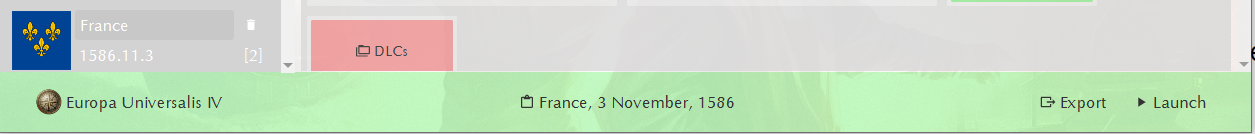
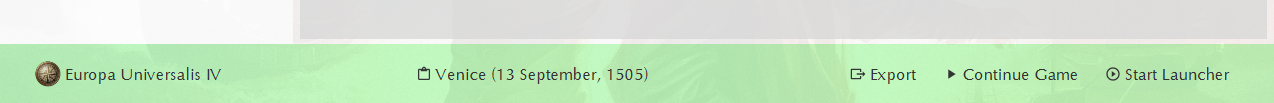
Update readmes

diff --git a/GUIDE.md b/GUIDE.md
@@ -24,13 +24,14 @@ Afterwards, this guide will show you how to make the best use of all the functio
 ## Table of Contents
 
 - [Game Installation detection](#game-installations)
-- [Importing savegames](#savegame-storage)
+- [Importing savegames](#savegame-importing-and-storage)
 - [Managing campaigns and folders](#campaigns-and-folders)
 - [Managing savegames](#savegames)
 - [Launching savegames](#launching-savegames)
 - [Other things to do with savegames](#savegame-actions)
-- [How to savescum](#savescumming)
+- [How to savescum](#savegame-checkpoints-and-savescumming)
 - [Accessing the raw savegame files](#working-with-the-raw-savegame-files)
+- [Troubleshooting](#troubleshooting)
 
 
 ## Game Installations
@@ -39,9 +40,9 @@ Upon installation, you probably have a lot of savegames of different Paradox gam
 either saved in your documents directories or your Steam cloudsave directories.
 The Pdx-Unlimiter will try to automatically detect any of those game installation and save game directories.
 If any installation is not detected, you can set them manually in the settings menu.
-Note that only up-to-date installations of Paradox games with installed Paradox Launcher are supported!
+Note that only relatively up-to-date installations of Paradox games with the Paradox Launcher are supported!
 
-## Savegame storage
+## Savegame importing and storage
 
 The Pdx-Unlimiter has an internal savegame storage that is
 independent of these savegame directories of your installed games.
@@ -58,9 +59,9 @@ import any savegame that you want to manage.
 This separation means that changing or deleting a file from your savegame directory
 does not delete it from the Pdx-Unlimiter storage and vice-versa.
 
-In the settings menu you can change the storage location and
-enable the option `Delete on import` which specifies
-whether to delete savegames after succesfully importing it into the Pdx-Unlimiter storage.
+You can change the storage directory in the settings menu and
+also open it by clicking on `Storage` -> `Open storage directory` in the menu bar.
+
 
 ## Campaigns and folders
 
@@ -74,10 +75,10 @@ In addition to campaigns, you can also create folders by clicking on the **Add F
 shown in the picture.
 Next to it is a search bar that you can use to quickly find specific campaigns or savegames.
 A folder is meant to store various savegames that might belong to entirely different campaigns.
-An example is the **Melted Savegames** folder that stores any converted Ironman savegame.
+An example is the generated **Melted Savegames** folder that stores any converted Ironman savegame.
 
 The campaigns and folders are ordered by how recently a savegame
-of that campaign was directly launched from the Pdx-Unlimiter.
+of that campaign was launched from the Pdx-Unlimiter.
 
 The campaign name can be edited by clicking on it.
 You can also delete an entire campaign by clicking on the **Delete** button.
@@ -110,9 +111,13 @@ By clicking the **Export** button in the status bar,
 you can copy the savegame into the savegame directory of the current game.
 This will however not launch the game automatically.
 
-You can also launch the selected savegame directly by clicking the **Launch** button.
+You can also launch the selected savegame directly by clicking the **Continue Game** button.
 This direct launch will automatically attempt to enable every required mod and dlc.
 This will bypass the Paradox launcher and main menu, i.e. saving a lot of time.
+
+**Start Launcher** will start your active launcher, usually the Paradox Launcher,
+in which you can then click **Continue Game** to launch the selected savegame.
+This is useful, if you want to change your mod or dlc configurations.
 
 If some content is missing, or the game version is not compatible, a red status bar will be shown.
 You can still launch the savegame, but you will get a warning about which mod or dlc is missing.
@@ -167,7 +172,7 @@ For this to work, you first have to set your skanderbeg.pm <b>API key</b> in the
 Deletes the savegame.
 </p>
 
-## Savescumming
+## Savegame checkpoints and savescumming
 
 In case of any unfortunate ingame event that you want to revert,
 the Pdx-Unlimiter gives you the ability to savescum, i.e. reverting to a
@@ -176,11 +181,11 @@ While playing a supported game, a status bar that looks like will pop up:
 
 ![Running](docs/status-bar-running.png)
 
+### Shortcuts
 
 These previous savegame checkpoints can be created/imported while being ingame by
 clicking on **Import** button or pressing `CTRL+SHIFT+I`.
 This will import the latest savegame, shown in the center of the status bar.
-If the key combination is pressed, a confirmation sound will play
 
 By pressing either `CTRL+SHIFT+K` or **Kill** in the status bar,
 you can kill the currently running game without it having a chance to overwrite the latest savegame.
@@ -188,6 +193,19 @@ You can simply select your latest imported savegame in the Pdx-Unlimiter and lau
 
 If you just want to revert to the latest saved savegame, you can also use `CTRL+SHIFT+R`
 to combine these functions, i.e. import the latest savegame, kill the game process and launch it again.
+
+### Settings
+
+In the settings menu you can also enable time-based autoimports of savegames:
+- `Enabled timed imports` - Enables automatically importing the latest
+  savegame after a certain time has passed while playing.
+- `Timed imports interval` - The interval between automatic imports in minutes.
+
+
+If a key combination to import is pressed, a confirmation sound
+will play if the following option is enabled in the settings menu:
+- `Play sound on background import` - Play a beep sound when importing a savegame
+  while a game is open and the Pdx-Unlimiter is running in the background.
 
 ## Working with the raw savegame files
 
@@ -223,7 +241,8 @@ In case of any problems, you can do the following:
 
 - Use the automatic report functionality of the error reporter if it comes up
 - You can also open the issue reporter at 'Help' -> 'Report issue' in the menu bar
-- Alternatively, you can also open an issue on GitHub and describe the error in more detail
+- Alternatively, you can also open an issue on GitHub and describe the error
+  in more detail or visit the Pdx-Unlimiter Discord server
 - If the application does not even start, or you want to dig deeper into the error cause,
   you can find the different log files at `<documents directory>\Pdx-Unlimiter\logs`
   on Windows and `~/.local/share/.pdx-unlimiter/logs` on Linux.

diff --git a/EDITOR-GUIDE.md b/EDITOR-GUIDE.md
@@ -1,11 +1,17 @@
 
 ## Structure
 
-A savegame consists out of many entries, where each entry has a name,
+A savegame consists out of many entries, where each entry can have a name,
 also called the key, and an associated value.
-They are formatted as `<key name> = <value>` pairs and look like this:
+If an entry has a key name, it is formatted as `<key name> = <value>` and look like this:
 
 ![Entry](docs/data-entry.png)
+
+If an entry does not have a key, its index is displayed as its key:
+
+![No-Key](docs/nokey.png)
+
+### Primitives
 
 The associated values can be of one of the following primitive types:
 <p>
@@ -42,7 +48,7 @@ A value can also be a list of any type of the ones listed above and would look l
 
 ![List-Entry](docs/list-entry.png)
 
-You can open the list contents by clicking on it.
+You can expand the list contents by clicking on it.
 
 <p>
 <img align="left" src="docs/complex.png" width=28/>
@@ -54,8 +60,19 @@ Complex type, assigned if a list contains key-value pairs on its own, its type i
 A button that you can hover over to get a preview of the list contents in text form.
 </p>
 
-## aaa
+### Objects
 
+
+### Synthetic lists
+
+It is also possible that there are multiple entries with the same key name.
+In this case, they are automatically merged into a synthetic list entry:
+
+![Synthetic-Entry](docs/synthetic.png)
+
+They are called synthetic, because these entries do not actually exist like this in the savegame.
+In the case shown above, there actually exist 732 entries with the key `rebel_faction` instead.
+This merging is done for readability.
 
 
 ## Navigation
@@ -65,7 +82,6 @@ where you currently are in your savegame and also allows you go back up.
 It looks like this:
 
 ![Nav-Bar](docs/nav-bar.png)
-
 
 
 ## Filters

diff --git a/FAQ.md b/FAQ.md
@@ -17,7 +17,8 @@ For every item of the list above, the Pdx-Unlimiter comes with a corresponding s
 You can find detailed information about that in the
 [Pdx-Unlimiter Guide](https://github.com/crschnick/pdx_unlimiter/blob/master/GUIDE.md).
 
-As a result, if you only play one campaign at a time and therefore do not switch between mod configurations,
+As a result, if you only play one campaign at a time,
+do not switch between mod configurations,
 do not make savegame backups to either savescum or protect against data loss,
 do not use any commonly used third party tools for Paradox games,
 and never edit your savegames to either experiment or do some multiplayer configuration changes,
@@ -26,18 +27,18 @@ then the Pdx-Unlimiter is not really useful to you!
 ### Is this a replacement for the Paradox Launcher?
 
 No, since it does not provide a user interface for enabling/disabling/installing
-mods or connecting your Paradox account. The primary focus lies on savegame management some other features.
+mods or connecting your Paradox account.
 
 
 ### What games are supported?
 
 - EU4: Full support
 - CK3: Full support
-- HOI4: Yes, but currently lacking a savegame information display like for EU4
-- Stellaris: Yes, but no mod integration since Stellaris savegames do not store mod information
+- HOI4: Yes, but currently lacking a savegame information display like for EU4 and CK3
+- Stellaris: Yes, but currently lacking a savegame information display like for EU4 and CK3
 
 Note that only installations using the Paradox Launcher are supported.
-I.e. old game versions do not work.
+I.e. very old game versions do not work.
 
 
 ### Can I use this in combination with other launchers?
